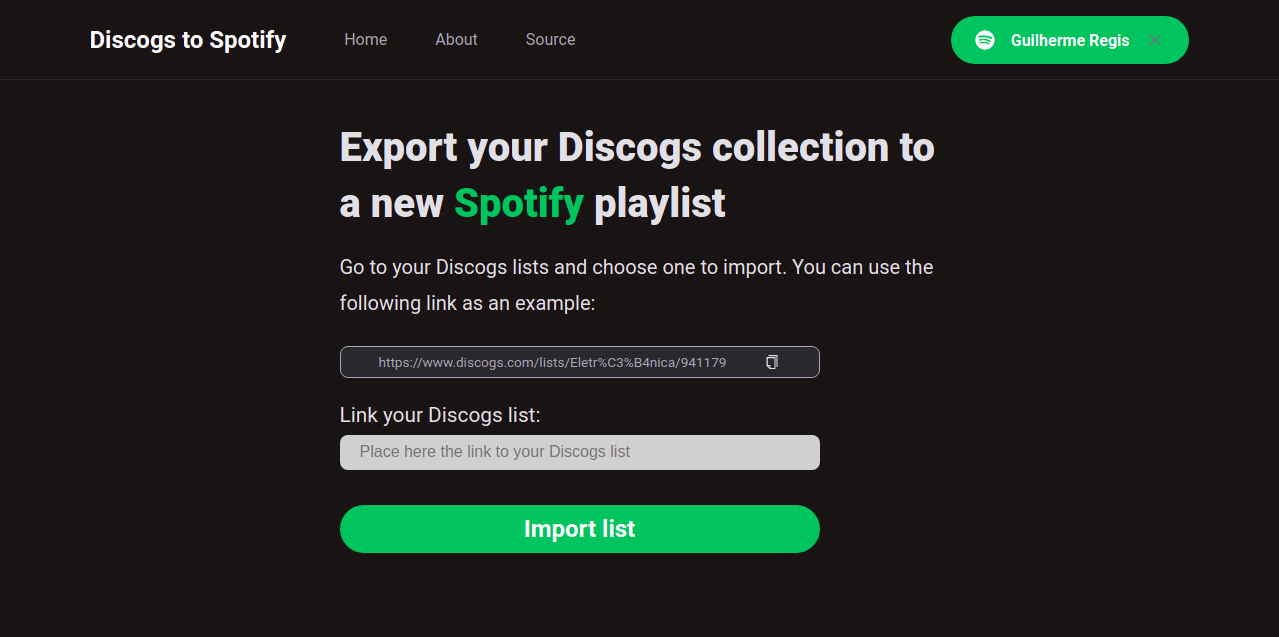
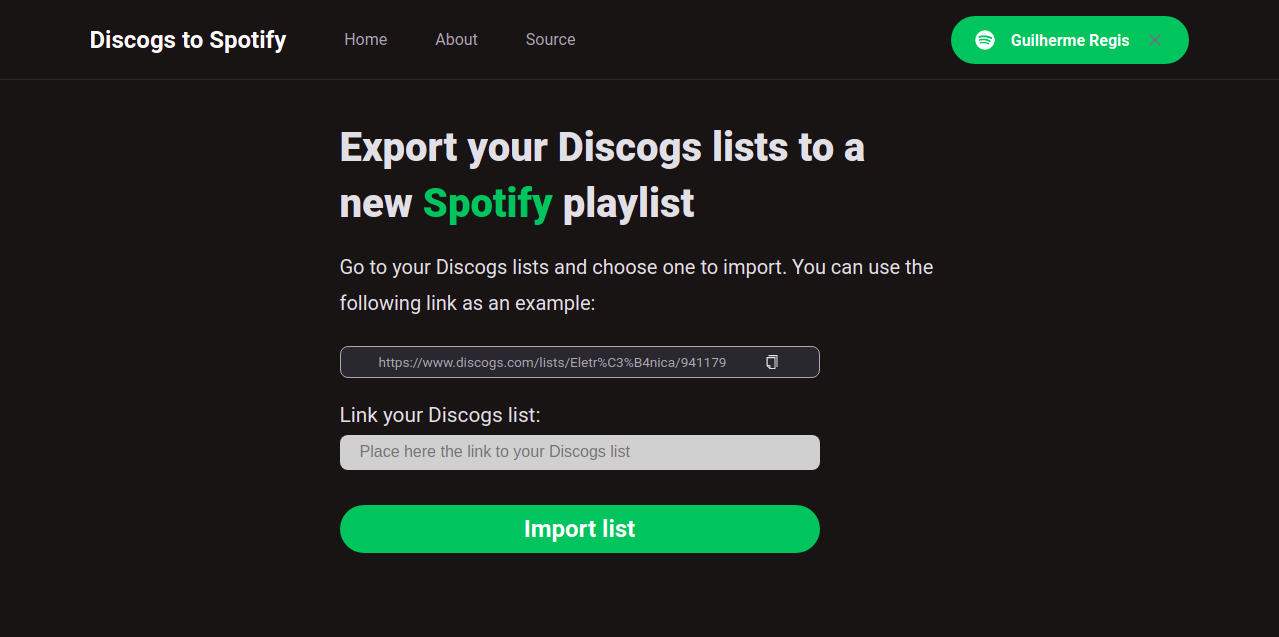
fixes footer and readme

Changed region(s): [[0.2439, 0.2684, 0.5794, 0.3579], [0.5489, 0.2088, 0.7318, 0.2684]]

diff --git a/src/components/Playlist/home.module.scss b/src/components/Playlist/home.module.scss
@@ -21,7 +21,40 @@
       background-color: rgba(255, 255, 255, 0.9);
       border: none;
     }
+    @media (max-width: 375px) {
+      width: 100%;
+    }
   }
+  .generatebutton {
+    width: 80%;
+    height: 3rem;
+    border-radius: 3rem;
+    background: var(--green-500);
+    border: 0;
+    padding: 0 1.5rem;
+    margin-bottom: 20px;
+  
+    display: flex;
+    align-items: center;
+    justify-content: center;
+  
+    color: var(--white);
+    font-weight: bold;
+  
+    transition: ease 0.5s;
+  
+  
+    &:hover {
+      filter: brightness(0.7);
+    }
+  
+    @media (max-width: 375px) {
+      font-weight: bold;
+      height: 50px;
+      width: 100%;
+    }
+  }
+  
 
   
 }
@@ -46,34 +79,6 @@ form {
 }
 
 
-.generatebutton {
-  height: 3rem;
-  border-radius: 3rem;
-  background: var(--green-500);
-  border: 0;
-  padding: 0 1.5rem;
-  margin-bottom: 20px;
-
-  display: flex;
-  align-items: center;
-  justify-content: center;
-
-  color: var(--white);
-  font-weight: bold;
-
-  transition: ease 0.5s;
-
-
-  &:hover {
-    filter: brightness(0.7);
-  }
-
-  @media (max-width: 330px) {
-    font-weight: bold;
-    height: 50px
-
-  }
-}
 
 
 

diff --git a/src/pages/collection/index.js b/src/pages/collection/index.js
@@ -14,7 +14,7 @@ export default function Collections() {
       <main className={styles.contentContainer}>
         <section className={styles.hero}>
           <h1>
-            Export your Discogs collection to a new
+            Export your Discogs lists to a new
             <span> Spotify</span>
             {' '}
             playlist

diff --git a/src/components/Footer/styles.module.scss b/src/components/Footer/styles.module.scss
@@ -5,7 +5,7 @@
     width: 100%;
 
     
-    margin-top: 20px;
+    margin-top: 10px;
     // padding: 10px;
     margin-bottom: 20px;
     text-align: center;

diff --git a/README.md b/README.md
@@ -3,7 +3,7 @@
 
 <img src="./public/images/home.png" alt="Discogs to Spotify" />
 
-### About
+# About
 
 Discogs to Spotify is a app that creates Spotify playlists based on any Discogs list.
 It is simple and intuitive and you can test it even if you're not a Discogs user (hope you enjoy Daft Punk!).
@@ -19,8 +19,17 @@ Built using React with NextJS, integrates Discogs public API with Spotify user A
 <img src="./public/images/collection2.png" alt="Discogs to Spotify"  />
 <img src="./public/images/result.png" alt="Discogs to Spotify"  />
 
+## Disclaimer
 
-## Contributing
+> We are still waiting for the quota extension from Spotify so that the app works with any user. Therefore, we provide an Spotify account for testing:
+>
+>**E-mail:** discogs.to.spotify@gmail.com
+>
+>**Password:** dts123456
+>
+
+
+# Contributing
 
 1. Create an issue to discuss the feature.
 
@@ -29,9 +38,9 @@ Built using React with NextJS, integrates Discogs public API with Spotify user A
 3. Issue a PR when its ready.
 
 
-## Getting Started
+# Getting Started
 
-### Starting the application
+## Starting the application
 
 Run the development server:
 
@@ -41,7 +50,7 @@ npm run dev
 yarn dev
 ```
 
-### Linting
+## Linting
 
 Using ESLint
 
@@ -49,7 +58,7 @@ Using ESLint
 yarn lint-fix
 ```
 
-### Deploy
+## Deploy
 
 Deployment made automatically on Vercel from GitHub.
 
@@ -59,6 +68,6 @@ Branch `staging`: https://discogs-to-spotify-staging.vercel.app/
 
 
 
-### License
+## License
 
 See LICENSE file.
